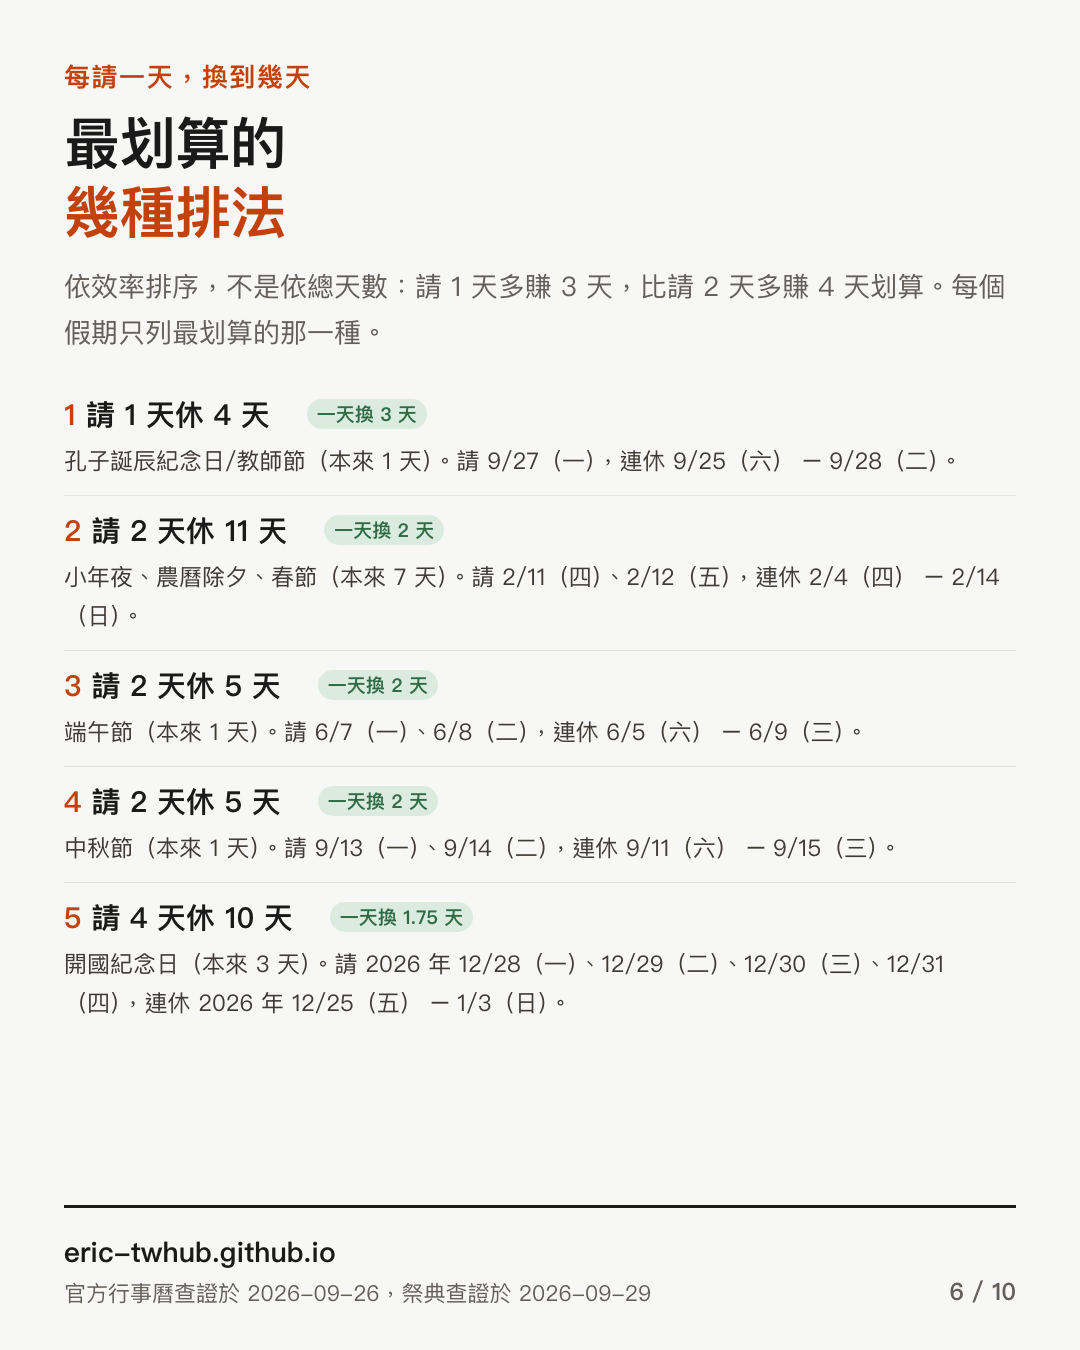
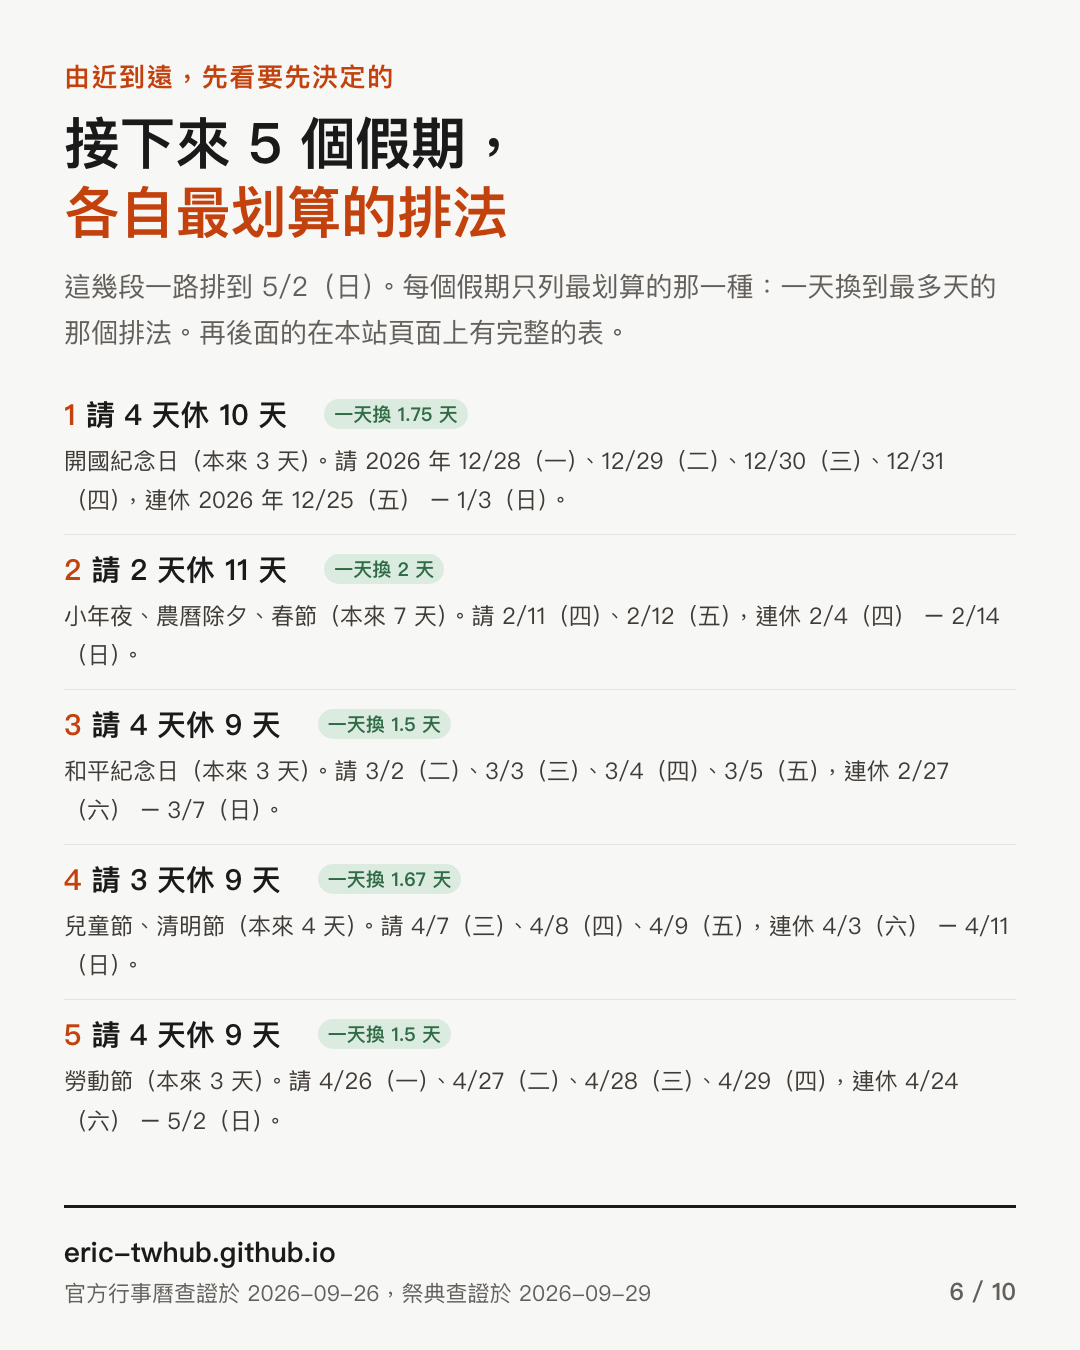
請假攻略圖卡：那張排法由近到遠排，不再依效率
依效率排的話第一個出現的是 2027 年 9 月的教師節，一月的開國紀念日
排到第五。排假是有時效的事，九月的假期再划算，一月也還輪不到你煩惱，
要先決定的是最近的那幾個。

改成由近到遠取五個，每個假期一樣只列自己最划算的那一種排法
（看的是一天換到幾天，不是總共多賺幾天）。2027 那組現在從
開國紀念日開始，一路排到勞動節 5/2，正好是上半年。
過了的假期本來就會從清單掉出去，所以這張會跟著時間往前滾。

順帶把「一天換 1.66667 天」改成兩位小數去尾，1.75 就顯示 1.75，
不四捨五入成 1.8。

diff --git a/make_twholiday_cards.py b/make_twholiday_cards.py
@@ -80,6 +80,12 @@ def _short(a, b):
     return x if a == b else f'{x}–{int(b[5:7])}/{int(b[8:10])}'
 
 
+def _eff(g, L):
+    """一天換到幾天。5/3 印成 1.66667 太難看，也不要四捨五入成 1.7；
+    取兩位小數再把多餘的零去掉，1.75 就是 1.75。"""
+    return f'{g / L:.2f}'.rstrip('0').rstrip('.')
+
+
 def _chunk(xs, n):
     """切成每組不超過 n 筆，而且各組盡量一樣多。
 
@@ -217,9 +223,10 @@ def build(d):
             f'第 {k + 1} 組，共 {n} 組' if n > 1 else '請 1 到 4 天的最佳排法')
 
     # ── 最划算的幾段：實際要請哪幾天 ──
-    # 排序看的是效率（每請一天換到幾天），不是總共多賺幾天。
-    # 用總數排的話「請 2 天多賺 4 天」會壓過「請 1 天多賺 3 天」，
-    # 但後者才是更划算的那一種。每個假期只取自己最划算的那一列，
+    # 由近到遠排，先列最快要決定的那幾個。排假是有時效的事：
+    # 九月的假期再划算，一月也還輪不到你煩惱。
+    # 每個假期取自己最划算的那一列（看效率，不是看總共多賺幾天，
+    # 因為「請 2 天多賺 4 天」沒有「請 1 天多賺 3 天」划算），
     # 否則同一個假期會用不同天數佔掉好幾格。
     rank = []
     for p in leave:
@@ -230,22 +237,26 @@ def build(d):
                 cand.append(((o['tot'] - p['base']) / L, -L,
                              o['tot'] - p['base'], L, p, o))
         if cand:
-            rank.append(max(cand))
-    rank.sort(key=lambda x: (-x[0], x[3], -x[2]))
-    if rank:
+            _e, _nl, gain, L, _p, o = max(cand)
+            rank.append((p['start'], gain, L, p, o))
+    rank.sort(key=lambda x: x[0])
+    take = rank[:TOP_RANK]
+    if take:
         rows = ''.join(
             f'<div class="blk"><b><i>{i + 1}</i>請 {L} 天休 {o["tot"]} 天'
-            f'　<span class="tag ok">一天換 {g / L:.6g} 天</span></b>'
+            f'　<span class="tag ok">一天換 {_eff(g, L)} 天</span></b>'
             f'<s>{E(p["name"])}（本來 {p["base"]} 天）。'
             f'請 {_days(o["lv"])}，'
             f'連休 {_rng(o["from"], o["to"])}。</s></div>'
-            for i, (_e, _nl, g, L, p, o) in enumerate(rank[:TOP_RANK]))
-        add('<div class="kick">每請一天，換到幾天</div>'
-            '<h1>最划算的<br><em>幾種排法</em></h1>'
-            '<div class="sub">依效率排序，不是依總天數：請 1 天多賺 3 天，'
-            '比請 2 天多賺 4 天划算。每個假期只列最划算的那一種。</div>'
+            for i, (_d0, g, L, p, o) in enumerate(take))
+        _last = take[-1][4]['to']
+        add('<div class="kick">由近到遠，先看要先決定的</div>'
+            f'<h1>接下來 {len(take)} 個假期，<br><em>各自最划算的排法</em></h1>'
+            f'<div class="sub">這幾段一路排到 {_rng(_last, _last)}。'
+            '每個假期只列最划算的那一種：一天換到最多天的那個排法。'
+            '再後面的在本站頁面上有完整的表。</div>'
             f'<div class="list">{rows}</div>', '',
-            '最划算的幾種排法', '依效率排序，附要請哪幾天')
+            f'接下來 {len(take)} 個假期的排法', '由近到遠，附要請哪幾天')
 
     # ── 祭典 ──
     for k, grp in enumerate(_chunk(up, PER_FEST)):
